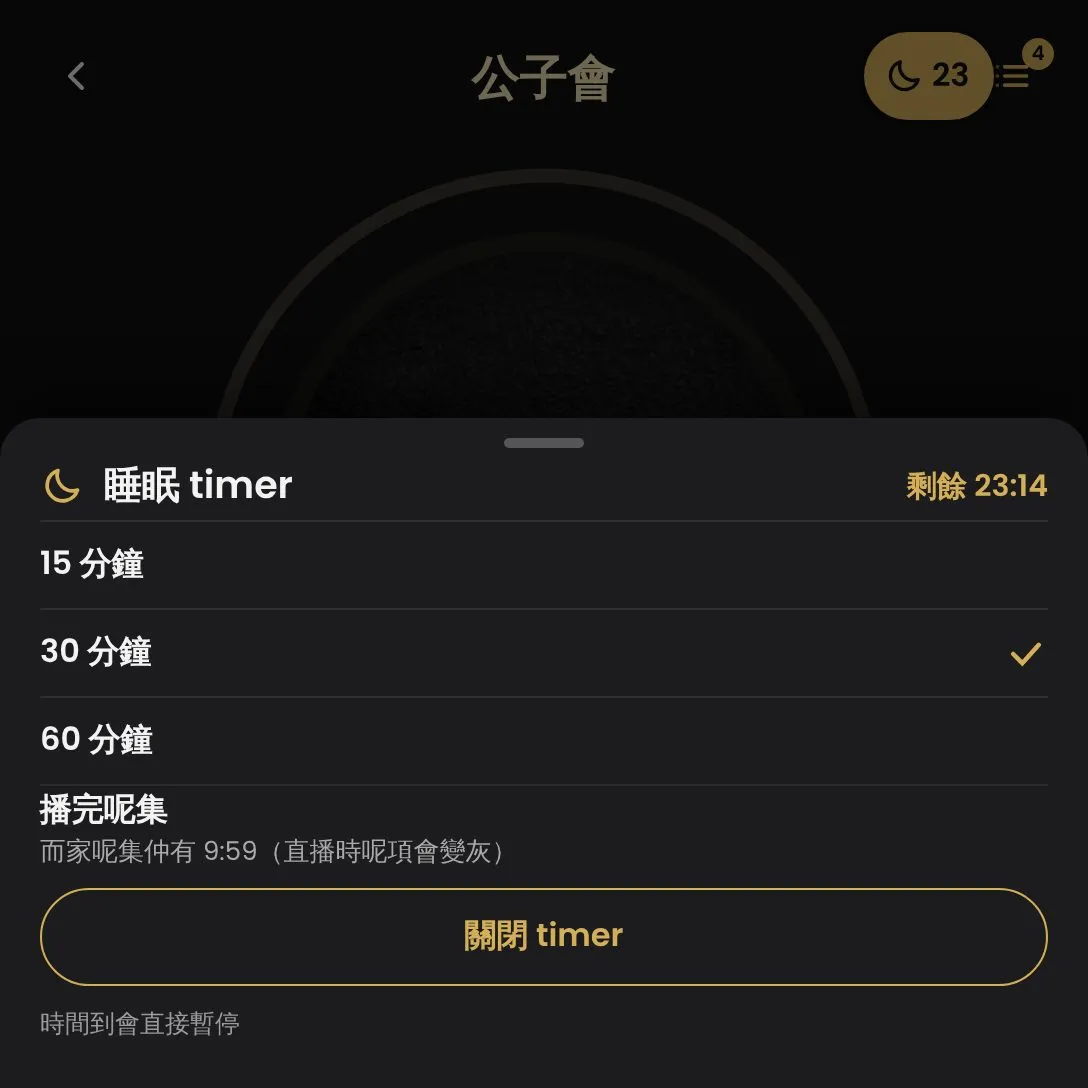
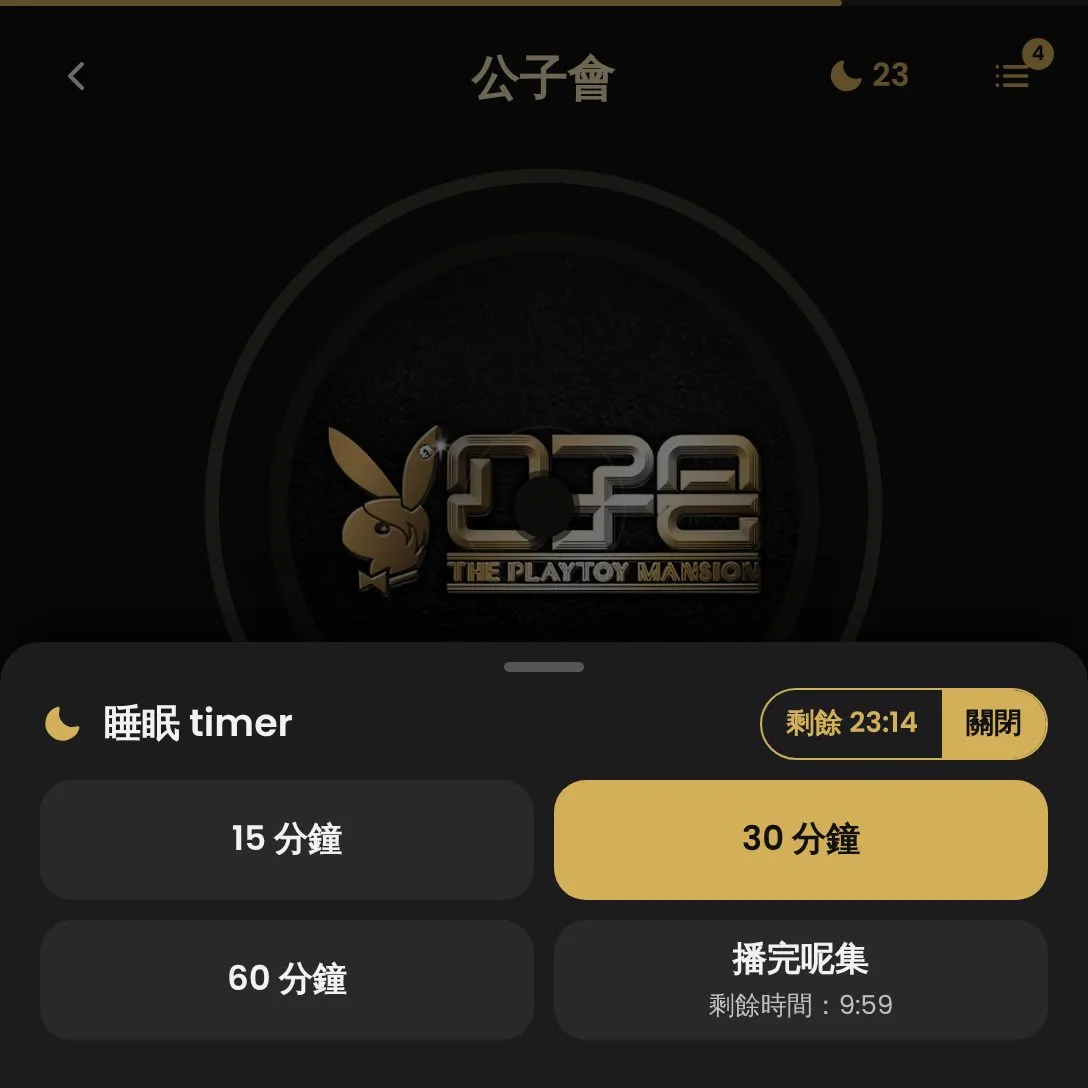
docs(mockup): sleep timer preview v3 (solid moon, top bar, 2x2 sheet)
Claude-Session: https://claude.ai/code/session_01NegVSzAWWvX3PHG28NyZnq

diff --git a/_mockups_/sleep-timer/index.html b/_mockups_/sleep-timer/index.html
@@ -129,15 +129,15 @@
     <body>
         <main>
             <header>
-                <h1>9d 睡眠 timer preview（v2：grill 之後）</h1>
+                <h1>9d 睡眠 timer preview（v3）</h1>
                 <p>
-                    真 app 截圖（v2.0.0）加上新掣。每行可以左右掃睇其他裝置。入口用方案
-                    B；月亮掣只喺裝置本地時間 21:00–05:00 出現，timer 開緊時一直出。
+                    真 app 截圖（v2.0.0）加上新掣。每行可以左右掃睇其他裝置。月亮掣只喺裝置本地時間
+                    21:00–05:00 出現，timer 開緊時一直出。示範狀態：揀咗 30 分鐘，剩 23:14。
                 </p>
             </header>
             <section>
                 <h2>日間（05:00–21:00）：零改變</h2>
-                <p>冇月亮掣，同而家 v2.0.0 一模一樣；e2e:visual 新加嘅 14:00 情境要 0 diff。</p>
+                <p>冇月亮掣，同 v2.0.0 一模一樣。</p>
                 <div class="row">
                     <figure>
                         <img src="phone-none.webp" alt="手機直：日間" loading="lazy" />
@@ -158,52 +158,54 @@
                 </div>
             </section>
             <section>
-                <h2>夜間 21:00–05:00：月亮掣（方案 B）</h2>
+                <h2>夜間：月亮掣</h2>
                 <p>
-                    內頁頁頭右上（HomeView 喺清單掣左邊）；闊版主頁播放卡喺卡頭下面嗰行左邊。未開 =
-                    細 icon；開咗 = 實色膠囊顯示剩餘分鐘（向上取整）。
+                    內頁頁頭右上（HomeView
+                    喺清單掣左邊）；闊版主頁播放卡喺卡頭下面嗰行（指示點同一行）右邊。未開 =
+                    線條月亮；開咗 = 實色月亮 + 剩餘分鐘（冇底色），頁頂全闊進度條隨時間扣減。
                 </p>
                 <div class="row">
                     <figure>
-                        <img src="phone-b-off.webp" alt="手機直：未開" loading="lazy" />
+                        <img src="phone-off.webp" alt="手機直：未開" loading="lazy" />
                         <figcaption>手機直・未開</figcaption>
                     </figure>
                     <figure>
-                        <img src="phone-b-on.webp" alt="手機直：開咗" loading="lazy" />
-                        <figcaption>手機直・開咗（剩 23 分）</figcaption>
+                        <img src="phone-on.webp" alt="手機直：開咗" loading="lazy" />
+                        <figcaption>手機直・開咗</figcaption>
                     </figure>
                     <figure>
-                        <img src="square-b-off.webp" alt="HomeView：未開" loading="lazy" />
+                        <img src="square-off.webp" alt="HomeView：未開" loading="lazy" />
                         <figcaption>HomeView・未開</figcaption>
                     </figure>
                     <figure>
-                        <img src="square-b-on.webp" alt="HomeView：開咗" loading="lazy" />
-                        <figcaption>HomeView・開咗（剩 23 分）</figcaption>
+                        <img src="square-on.webp" alt="HomeView：開咗" loading="lazy" />
+                        <figcaption>HomeView・開咗</figcaption>
                     </figure>
                     <figure>
-                        <img src="phoneL-b-off.webp" alt="手機橫：未開" loading="lazy" />
+                        <img src="phoneL-off.webp" alt="手機橫：未開" loading="lazy" />
                         <figcaption>手機橫・未開</figcaption>
                     </figure>
                     <figure>
-                        <img src="phoneL-b-on.webp" alt="手機橫：開咗" loading="lazy" />
-                        <figcaption>手機橫・開咗（剩 23 分）</figcaption>
+                        <img src="phoneL-on.webp" alt="手機橫：開咗" loading="lazy" />
+                        <figcaption>手機橫・開咗</figcaption>
                     </figure>
                     <figure>
-                        <img src="tabletL-b-off.webp" alt="平板橫主頁播放卡：未開" loading="lazy" />
+                        <img src="tabletL-off.webp" alt="平板橫主頁播放卡：未開" loading="lazy" />
                         <figcaption>平板橫主頁播放卡・未開</figcaption>
                     </figure>
                     <figure>
-                        <img src="tabletL-b-on.webp" alt="平板橫主頁播放卡：開咗" loading="lazy" />
-                        <figcaption>平板橫主頁播放卡・開咗（剩 23 分）</figcaption>
+                        <img src="tabletL-on.webp" alt="平板橫主頁播放卡：開咗" loading="lazy" />
+                        <figcaption>平板橫主頁播放卡・開咗</figcaption>
                     </figure>
                 </div>
             </section>
             <section>
                 <h2>底部選單</h2>
                 <p>
-                    未開：頂部「再開 30 分鐘」（上次揀嘅時長，localStorage 記住），下面 15 / 30 / 60
-                    分鐘、播完呢集（直播變灰）；一揀即計，暫停中都照計。開緊：顯示剩餘時間、剔住而家嗰項、「關閉
-                    timer」；揀另一項 = 由而家重新計。時間到直接暫停（唔淡出）。
+                    四粒大掣 2×2：15 / 30 / 60
+                    分鐘、播完呢集（顯示「剩餘時間：9:59」；直播變灰）。未開：上次揀嘅時長用框線
+                    highlight，撳一下即開始。開緊：嗰粒變實色；標題右邊「剩餘 23:14｜關閉」tab
+                    掣。平板橫：選單喺右邊播放卡位置。
                 </p>
                 <div class="row">
                     <figure>
@@ -249,14 +251,16 @@
                 </div>
             </section>
             <section>
-                <h2>Mini player</h2>
+                <h2>Mini player：timer 進度點顯示？（要你揀）</h2>
                 <p>
-                    日間零改變；21:00–05:00 播放掣左邊出細月亮（撳開同一個選單）；開緊變「🌙
-                    23」膠囊。實作時標題 / 日期會縮窄讓位（preview 係疊上去，未縮）。
+                    Mini player 底部已經係播放進度條，所以 timer
+                    進度要第二個位。M1：同內頁一樣用頁頂全闊條；M2：mini player
+                    頂邊一條細條；M3：月亮外圈圓環。實作時標題 / 日期會縮窄讓位（preview
+                    係疊上去）。
                 </p>
                 <div class="row">
                     <figure>
-                        <img src="phone-mini-off.webp" alt="mini player 日間" loading="lazy" />
+                        <img src="phone-mini-day.webp" alt="mini player 日間" loading="lazy" />
                         <figcaption>日間（唔變）</figcaption>
                     </figure>
                     <figure>
@@ -268,13 +272,21 @@
                         <figcaption>夜間・未開</figcaption>
                     </figure>
                     <figure>
-                        <img src="phone-mini-on.webp" alt="mini player timer 開緊" loading="lazy" />
-                        <figcaption>timer 開緊</figcaption>
+                        <img src="phone-mini-m1.webp" alt="M1 頁頂全闊條" loading="lazy" />
+                        <figcaption>M1・頁頂全闊條</figcaption>
+                    </figure>
+                    <figure>
+                        <img src="phone-mini-m2.webp" alt="M2 mini player 頂邊條" loading="lazy" />
+                        <figcaption>M2・卡頂邊細條</figcaption>
+                    </figure>
+                    <figure>
+                        <img src="phone-mini-m3.webp" alt="M3 月亮外圈" loading="lazy" />
+                        <figcaption>M3・月亮外圈</figcaption>
                     </figure>
                 </div>
             </section>
             <section>
-                <h2>已定決定（grill 結果）</h2>
+                <h2>已定決定</h2>
                 <table>
                     <thead>
                         <tr>
@@ -285,15 +297,21 @@
                     <tbody>
                         <tr>
                             <td>入口</td>
-                            <td>方案 B：頁頭右上 / HomeView 清單掣左邊 / 闊版播放卡卡頭下面左邊</td>
+                            <td>內頁頁頭右上 / HomeView 清單掣左邊 / 闊版播放卡指示點嗰行右邊</td>
                         </tr>
                         <tr>
                             <td>顯示時段</td>
                             <td>裝置本地時間 21:00–05:00（每分鐘檢查）；開緊 timer 一直出</td>
                         </tr>
                         <tr>
-                            <td>Mini player</td>
-                            <td>21:00–05:00 有月亮入口；開緊變膠囊</td>
+                            <td>開緊顯示</td>
+                            <td>實色月亮 + 剩餘分鐘；頁頂全闊進度條</td>
+                        </tr>
+                        <tr>
+                            <td>選單</td>
+                            <td>
+                                2×2 大掣；上次時長 highlight；開緊時標題右邊「剩餘｜關閉」；冇說明字
+                            </td>
                         </tr>
                         <tr>
                             <td>選項</td>
@@ -301,14 +319,11 @@
                         </tr>
                         <tr>
                             <td>播完呢集</td>
-                            <td>
-                                留喺同一集：播完（ended）先停；轉集 / 轉直播：用剩餘時間做
-                                background timer 繼續計
-                            </td>
+                            <td>留喺同一集：播完先停；轉集 / 轉直播：用剩餘時間繼續計</td>
                         </tr>
                         <tr>
                             <td>時間到</td>
-                            <td>直接暫停；記住上次時長，下次選單頂出「再開 N 分鐘」；唔自動重開</td>
+                            <td>直接暫停；記住上次時長；唔自動重開</td>
                         </tr>
                         <tr>
                             <td>暫停 / 轉節目</td>
@@ -316,16 +331,13 @@
                         </tr>
                         <tr>
                             <td>準確度</td>
-                            <td>
-                                絕對截止時間 + timeupdate
-                                檢查；sessionStorage，重新載入照計；過咗期就清走唔播
-                            </td>
+                            <td>絕對截止時間 + timeupdate 檢查；sessionStorage</td>
                         </tr>
                         <tr>
                             <td>e2e:visual</td>
                             <td>
-                                lane 0 先加 14:00 日間情境；日間 0 diff；22:30 只准月亮掣 pixel diff
-                                + mini player 標題 / 日期位置 diff
+                                lane 0 先加 14:00 日間情境；日間 0 diff；22:30 只准月亮掣 / 進度條
+                                pixel diff + mini player 標題 / 日期位置 diff
                             </td>
                         </tr>
                     </tbody>
